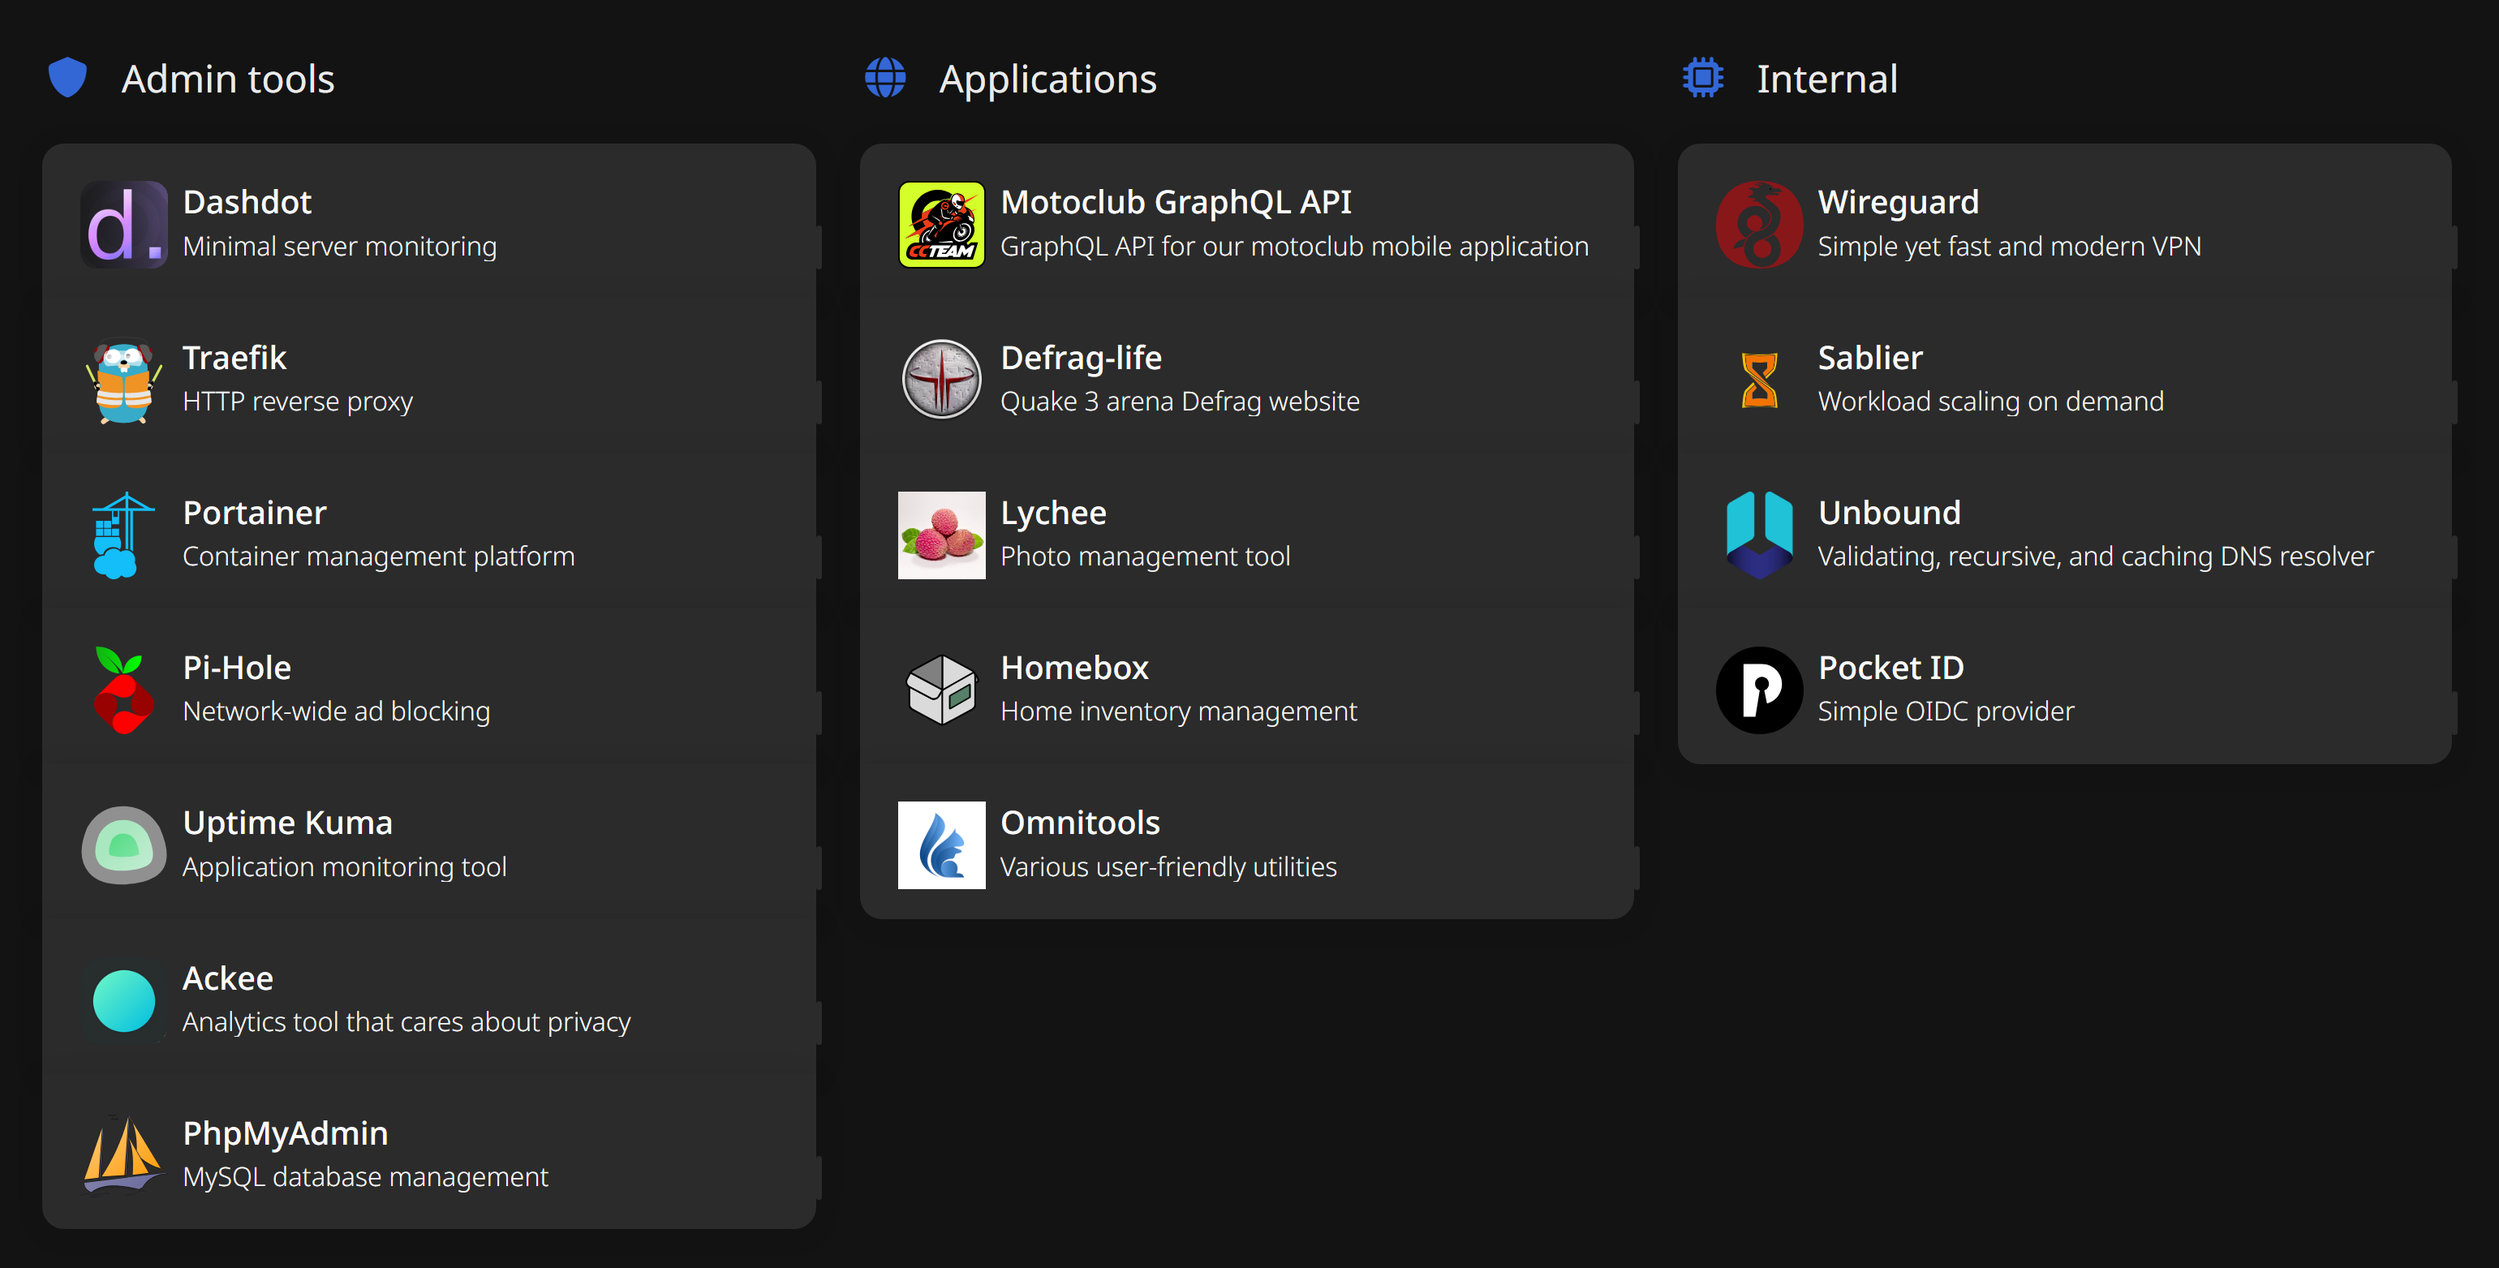
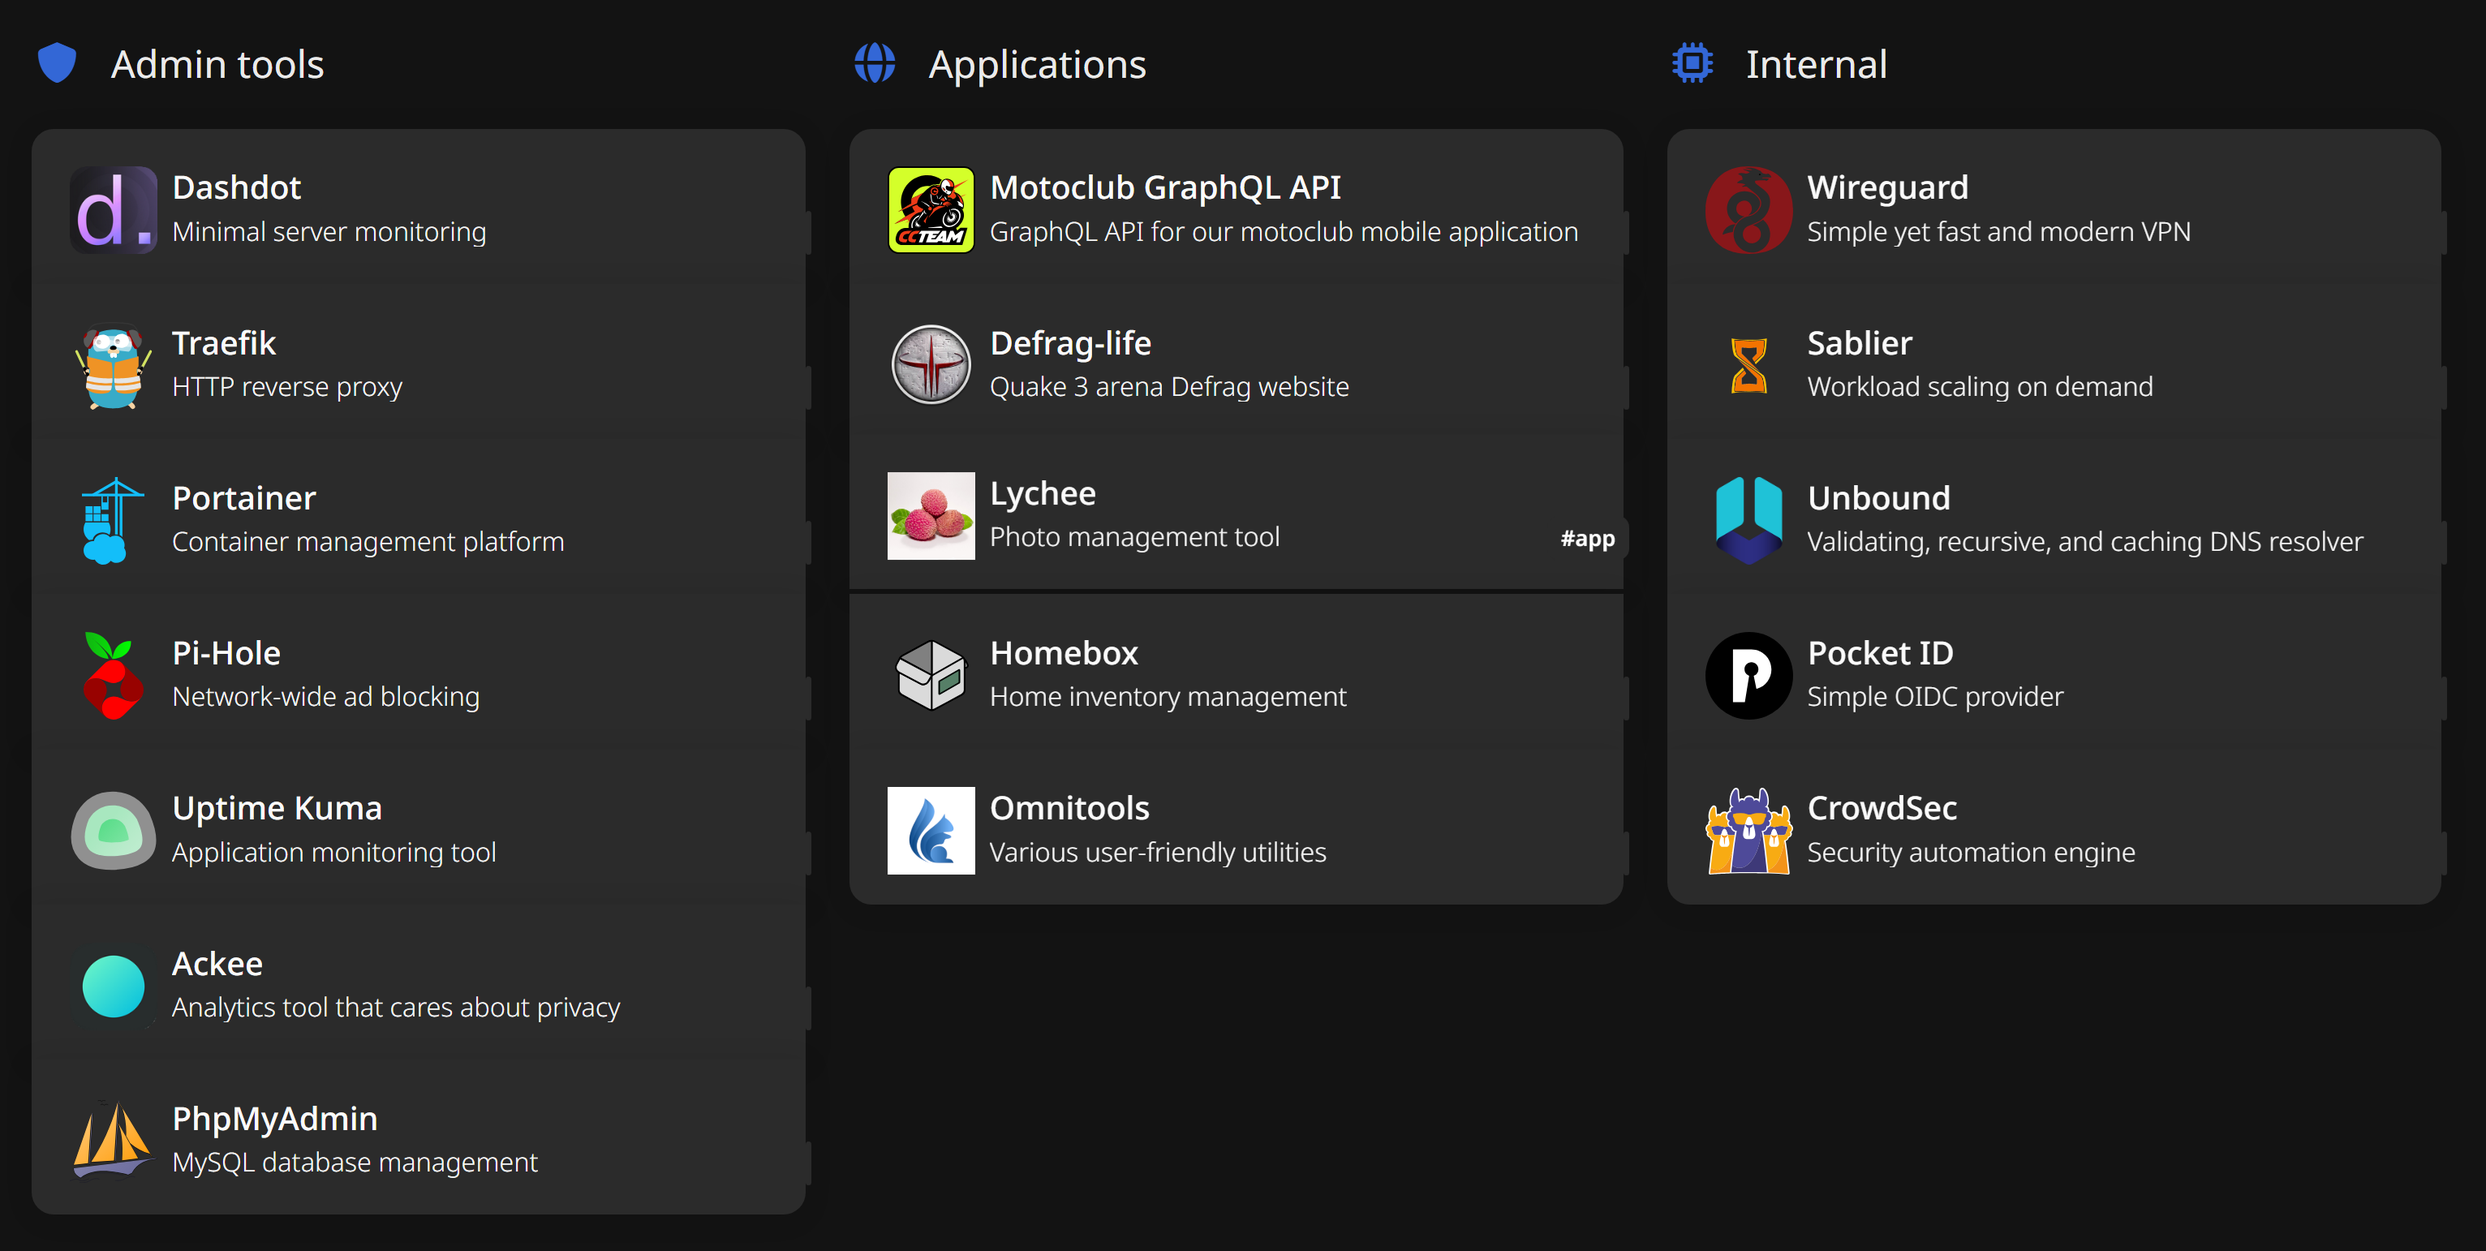
updated diagrams to reflect last changes + updated homer config to add crowdsec

diff --git a/README.md b/README.md
@@ -126,11 +126,13 @@ flowchart TB
     style PIHOLE_CONTAINER fill: #663535
     style UNBOUND_CONTAINER fill: #663535
     style MYAPP_CONTAINER fill: #663535
+    style CROWDSEC_CONTAINER fill: #663535
     style WIREGUARD_HOST fill: #663535
     style TRAEFIK_ROUTER fill: #806030
     style TRAEFIK_MIDDLEWARE fill: #806030
     style VPN_CLIENT fill: #105040
     style PIHOLE_DNS_RECORDS fill: #806030
+    style CROWDSEC_COMMUNITY fill: #4d683b
     DOMAIN(example.com)
     SUBDOMAIN_WIREGUARD(wireguard.example.com)
     SUBDOMAIN_MYAPP(myapp.example.com)
@@ -143,7 +145,7 @@ flowchart TB
     DOCKER_MYAPP_PORT5000{{5000/tcp}}
     DOCKER_PIHOLE_PORT80{{80/tcp}}
     DOCKER_PIHOLE_PORT53{{53/udp}}
-    DOCKER_TRAEFIK_PORT443{{433/tcp}}
+    DOCKER_TRAEFIK_PORT443{{443/tcp}}
     DOCKER_TRAEFIK_PORT80{{80/tcp}}
     DOCKER_TRAEFIK_PORT8080{{8080/tcp}}
     DOCKER_UNBOUND_PORT53{{53/udp}}
@@ -155,6 +157,10 @@ flowchart TB
     DOCKER_PIHOLE_DNS[DNS 1 & 2]
     PIHOLE_DNS_PIHOLE[pihole\n.example.com]
     PIHOLE_DNS_TRAEFIK[traefik\n.example.com]
+    CROWDSEC_BOUNCER(CrowdSec bouncer)
+    CROWDSEC_ENGINE[Security engine\n+ local API]
+    ACCESS_LOG[(access log)]
+    CROWDSEC_COMMUNITY[CrowdSec\ncommunity blocklist]
 
     subgraph VPN_CLIENT[VPN CLIENT]
         WIREGUARD_CLIENT_ENDPOINT[Endpoint]
@@ -190,8 +196,10 @@ flowchart TB
                 subgraph TRAEFIK_MIDDLEWARE[TRAEFIK MIDDLEWARE]
                     REDIRECT(HTTPS redirect)
                     IP_WHITELISTING(IP whitelist)
-                    BASIC_AUTH(Basic auth)
+                    AUTH(PocketID auth)
                 end
+                CROWDSEC_BOUNCER
+                ACCESS_LOG
                 DOCKER_TRAEFIK_PORT80
                 DOCKER_TRAEFIK_PORT443
                 DOCKER_TRAEFIK_PORT8080
@@ -215,6 +223,10 @@ flowchart TB
                 DOCKER_UNBOUND_PORT53
             end
 
+            subgraph CROWDSEC_CONTAINER[CROWDSEC CONTAINER]
+                CROWDSEC_ENGINE
+            end
+
         end
 
         subgraph WIREGUARD_HOST[WIREGUARD\non the host]
@@ -224,23 +236,28 @@ flowchart TB
     end
 
     WIREGUARD_CLIENT_ENDPOINT ---> SUBDOMAIN_WIREGUARD
-    WIREGUARD_CLIENT_DNS -->|10.0.0.1 = server tunnel address| DOCKER_PIHOLE_PORT53
+    WIREGUARD_CLIENT_DNS ------------------->|10.0.0.1\nserver tunnel address| DOCKER_PIHOLE_PORT53
     ROUTER_PORT51820 -->|port forward| DOCKER_WIREGUARD_PORT51820
     ROUTER_PORT443 ------>|port forward| DOCKER_TRAEFIK_PORT443
     ROUTER_PORT80 -->|port forward| DOCKER_TRAEFIK_PORT80
-    DNS_ISP ---->|Server static IP| DOCKER_PIHOLE_PORT53
+    DNS_ISP ------>|Server static IP| DOCKER_PIHOLE_PORT53
     PIHOLE_DNS_TRAEFIK --->|Server internal IP| DOCKER_TRAEFIK_PORT443
     PIHOLE_DNS_PIHOLE --->|Server internal IP| DOCKER_TRAEFIK_PORT443
-    DOCKER_TRAEFIK_PORT443 --> TRAEFIK_ROUTER
+    DOCKER_TRAEFIK_PORT443 --> CROWDSEC_BOUNCER
+    CROWDSEC_BOUNCER -->|IP not banned| TRAEFIK_ROUTER
     DOCKER_TRAEFIK_PORT80 --> TRAEFIK_ROUTER
+    CROWDSEC_BOUNCER -.->|every request logged| ACCESS_LOG
+    ACCESS_LOG -.->|reads, detects attacks| CROWDSEC_ENGINE
+    CROWDSEC_ENGINE -.->|decisions| CROWDSEC_BOUNCER
+    CROWDSEC_ENGINE <-....->|signals / community blocklist| CROWDSEC_COMMUNITY
     TRAEFIK_ROUTER_MYAPP --> REDIRECT
     TRAEFIK_ROUTER_PIHOLE --> REDIRECT
     TRAEFIK_ROUTER_TRAEFIK -->|Dashboard / API| REDIRECT
-    IP_WHITELISTING --> BASIC_AUTH
+    IP_WHITELISTING --> AUTH
     IP_WHITELISTING --> DOCKER_PIHOLE_PORT80
     REDIRECT --> IP_WHITELISTING
     REDIRECT ----> DOCKER_MYAPP_PORT5000
-    BASIC_AUTH --> DOCKER_TRAEFIK_PORT8080
+    AUTH --> DOCKER_TRAEFIK_PORT8080
     DOCKER_PIHOLE_DNS ---> DOCKER_UNBOUND_PORT53
     UNBOUND_CONTAINER <--> ROOT_DNS_SERVERS
 ```
@@ -254,6 +271,9 @@ so that we reroute the entire Internet traffic through **Pi-hole** and thus take
 In this example **Traefik** (_traefik.example.com_) and **Pi-Hole** (_pihole.example.com_) are only accessible
 through VPN and from the local network thanks to local DNS records and IP whitelisting,
 while **Myapp** (_myapp.example.com_) is also accessible from the internet publicly.
+
+On top of that, **CrowdSec** watches the Traefik access log and its bouncer, plugged on the HTTPS entrypoint, rejects the IP addresses flagged as malicious
+(by our own scenarios or by the community blocklist) before they reach any service, see [CrowdSec](#crowdsec).
 
 You will find more details on how all this has been implemented later in this guide.
 
@@ -785,7 +805,7 @@ flowchart LR
     style SERVER_DEVICE fill: #665555
     style CONTAINER_ENGINE fill: #664545
     INCOMING_REQUEST((INCOMING\nREQUEST))
-    DOCKER_TRAEFIK_PORT443{{433/tcp}}
+    DOCKER_TRAEFIK_PORT443{{443/tcp}}
     DOCKER_TRAEFIK_PORT80{{80/tcp}}
     DOCKER_TRAEFIK_PORT8080{{8080/tcp}}
     DOCKER_MYAPP1_PORT{{exposed port}}
@@ -812,7 +832,7 @@ flowchart LR
                 subgraph TRAEFIK_MIDDLEWARE[TRAEFIK MIDDLEWARE]
                     REDIRECT(HTTPS redirect)
                     IP_WHITELISTING(IP whitelist)
-                    BASIC_AUTH(Basic auth)
+                    AUTH(PocketID auth)
                 end
                 DOCKER_TRAEFIK_PORT80
                 DOCKER_TRAEFIK_PORT443
@@ -830,11 +850,11 @@ flowchart LR
     TRAEFIK_ROUTER_MYAPP1 --> REDIRECT
     TRAEFIK_ROUTER_MYAPP2 --> REDIRECT
     REDIRECT -.-> DOCKER_TRAEFIK_PORT443
-    IP_WHITELISTING --> BASIC_AUTH
+    IP_WHITELISTING --> AUTH
     IP_WHITELISTING ---> DOCKER_MYAPP2_PORT
     REDIRECT --> IP_WHITELISTING
     REDIRECT ---> DOCKER_MYAPP1_PORT
-    BASIC_AUTH --> DOCKER_TRAEFIK_PORT8080
+    AUTH --> DOCKER_TRAEFIK_PORT8080
 ```
 
 It handles HTTP to HTTPS redirection, IP whitelisting and authentication (through PocketID, or basic authentication) through custom **middlewares**.
@@ -1891,53 +1911,31 @@ For the following examples, we will consider that the **user** enters http://mya
 Here is what happen when you try to reach a service which is **open to the internet**, without using any VPN,
 from your local network holding your homelab (on the left), or from any other location (on the right) :
 
-<table>
+<table width="100%">
 <tr>
-<td>
-<img width="450px" height="1px" alt="1px blank image just for spacing">
+<td width="50%" valign="top">
 
 ```mermaid
 flowchart TB
-    style HOSTING_PROVIDER fill: #4d683b
-    style DDNS_PROVIDER fill: #69587b
     style INTERNET_SERVICE_PROVIDER fill: #205566
     style SERVER_DEVICE fill: #665151
     style CONTAINER_ENGINE fill: #664343
     style TRAEFIK_CONTAINER fill: #663535
     style PIHOLE_CONTAINER fill: #663535
-    style UNBOUND_CONTAINER fill: #663535
     style MYAPP_CONTAINER fill: #663535
+    style PIHOLE_DNS_RECORDS fill: #806030
     style TRAEFIK_ROUTER fill: #806030
     style TRAEFIK_MIDDLEWARE fill: #806030
-    DOMAIN(example.com)
-    SUBDOMAIN_MYAPP(myapp.example.com)
-    DDNS(myddns.ddns.net)
-    ROUTER_PUBLIC_IP[public IP]
-    ROUTER_PORT80{{80/tcp}}
-    ROUTER_PORT443{{443/tcp}}
     ROUTER_DNS[DNS]
     DOCKER_PIHOLE_PORT53{{53/udp}}
-    DOCKER_TRAEFIK_PORT443{{433/tcp}}
+    DOCKER_TRAEFIK_PORT443{{443/tcp}}
     DOCKER_TRAEFIK_PORT80{{80/tcp}}
     DOCKER_MYAPP_PORT{{port/tcp}}
-    DOCKER_UNBOUND_PORT53{{53/udp}}
     TRAEFIK_ROUTER_MYAPP(myapp.example.com)
     TRAEFIK_MIDDLEWARE_REDIRECT(HTTPS redirect)
-    ROOT_DNS_SERVERS[Root DNS servers]
-
-    subgraph HOSTING_PROVIDER[DOMAIN NAME REGISTRAR]
-        DOMAIN
-        SUBDOMAIN_MYAPP
-    end
-
-    subgraph DDNS_PROVIDER[DYNAMIC DNS PROVIDER]
-        DDNS
-    end
+    PIHOLE_DNS_MYAPP(myapp.example.com)
 
     subgraph INTERNET_SERVICE_PROVIDER[INTERNET SERVICE PROVIDER]
-        ROUTER_PUBLIC_IP
-        ROUTER_PORT80
-        ROUTER_PORT443
         ROUTER_DNS
     end
 
@@ -1947,12 +1945,11 @@ flowchart TB
                 DOCKER_MYAPP_PORT
             end
 
-            subgraph UNBOUND_CONTAINER[UNBOUND CONTAINER]
-                DOCKER_UNBOUND_PORT53
-            end
-
             subgraph PIHOLE_CONTAINER[PIHOLE CONTAINER]
                 DOCKER_PIHOLE_PORT53
+                subgraph PIHOLE_DNS_RECORDS[LOCAL DNS RECORDS]
+                    PIHOLE_DNS_MYAPP
+                end
             end
 
             subgraph TRAEFIK_CONTAINER[TRAEFIK CONTAINER]
@@ -1973,46 +1970,29 @@ flowchart TB
     end
 
     CLIENT((client)) --->|" http://myapp.example.com "| BROWSER
-    BROWSER((browser)) -->|HTTP| ROUTER_PUBLIC_IP
-    DOMAIN <-->|subdomain| SUBDOMAIN_MYAPP
-    SUBDOMAIN_MYAPP <-->|CNAME| DDNS
-    DDNS <-->|DynDNS| ROUTER_PUBLIC_IP
-    ROUTER_PUBLIC_IP --> ROUTER_PORT80
-    ROUTER_PUBLIC_IP --> ROUTER_PORT443
-    ROUTER_PORT443 -->|port forward| DOCKER_TRAEFIK_PORT443
-    ROUTER_PORT80 -->|port forward| DOCKER_TRAEFIK_PORT80
-    DOCKER_TRAEFIK_PORT443 --> TRAEFIK_ROUTER
-    DOCKER_TRAEFIK_PORT80 --> TRAEFIK_ROUTER
-    TRAEFIK_ROUTER_MYAPP --> TRAEFIK_MIDDLEWARE_REDIRECT
-    TRAEFIK_MIDDLEWARE_REDIRECT --> DOCKER_TRAEFIK_PORT443
-    TRAEFIK_MIDDLEWARE_REDIRECT --> DOCKER_MYAPP_PORT
     BROWSER((browser)) <--> LOCAL_DNS_RESOLVER[/local resolver\]
     LOCAL_DNS_RESOLVER <--->|router local IP address| ROUTER_DNS
     ROUTER_DNS <-->|mini PC static IP| DOCKER_PIHOLE_PORT53
-    DOCKER_PIHOLE_PORT53 <-->|DNS| DOCKER_UNBOUND_PORT53
-    UNBOUND_CONTAINER <-----> ROOT_DNS_SERVERS
+    PIHOLE_DNS_MYAPP -->|mini PC internal IP| DOCKER_TRAEFIK_PORT80
+    DOCKER_TRAEFIK_PORT80 --> TRAEFIK_ROUTER
+    DOCKER_TRAEFIK_PORT443 --> TRAEFIK_ROUTER
+    TRAEFIK_ROUTER_MYAPP --> TRAEFIK_MIDDLEWARE_REDIRECT
+    TRAEFIK_MIDDLEWARE_REDIRECT --> DOCKER_TRAEFIK_PORT443
+    TRAEFIK_MIDDLEWARE_REDIRECT --> DOCKER_MYAPP_PORT
     linkStyle 0 stroke-width: 4px, stroke: red
-    linkStyle 1 stroke-width: 4px, stroke: red
+    linkStyle 1 stroke-width: 4px, stroke: yellow, stroke-dasharray: 5
     linkStyle 2 stroke-width: 4px, stroke: yellow, stroke-dasharray: 5
     linkStyle 3 stroke-width: 4px, stroke: yellow, stroke-dasharray: 5
-    linkStyle 4 stroke-width: 4px, stroke: yellow, stroke-dasharray: 5
+    linkStyle 4 stroke-width: 4px, stroke: red
     linkStyle 5 stroke-width: 4px, stroke: red
+    linkStyle 6 stroke-width: 4px, stroke: red
+    linkStyle 7 stroke-width: 4px, stroke: red
     linkStyle 8 stroke-width: 4px, stroke: red
     linkStyle 9 stroke-width: 4px, stroke: red
-    linkStyle 10 stroke-width: 4px, stroke: red
-    linkStyle 11 stroke-width: 4px, stroke: red
-    linkStyle 12 stroke-width: 4px, stroke: red
-    linkStyle 13 stroke-width: 4px, stroke: red
-    linkStyle 14 stroke-width: 4px, stroke: yellow, stroke-dasharray: 5
-    linkStyle 15 stroke-width: 4px, stroke: yellow, stroke-dasharray: 5
-    linkStyle 16 stroke-width: 4px, stroke: yellow, stroke-dasharray: 5
-    linkStyle 17 stroke-width: 4px, stroke: yellow, stroke-dasharray: 5
-    linkStyle 18 stroke-width: 4px, stroke: yellow, stroke-dasharray: 5
 ```
 
 </td>
-<td>
-<img width="450px" height="1px" alt="1px blank image just for spacing">
+<td width="50%" valign="top">
 
 ```mermaid
 flowchart TB
@@ -2034,7 +2014,7 @@ flowchart TB
     ROUTER_PORT80{{80/tcp}}
     ROUTER_PORT443{{443/tcp}}
     ROUTER2_DNS[DNS]
-    DOCKER_TRAEFIK_PORT443{{433/tcp}}
+    DOCKER_TRAEFIK_PORT443{{443/tcp}}
     DOCKER_TRAEFIK_PORT80{{80/tcp}}
     DOCKER_MYAPP_PORT{{port/tcp}}
     TRAEFIK_ROUTER_MYAPP(myapp.example.com)
@@ -2128,10 +2108,11 @@ flowchart TB
 </tr>
 </table>
 
-Once the **resolving name server** got the **IP address** through **DNS resolver** (yellow dotted line),
-the request reaches the mini PC on port **80** (HTTP) after being **port forwarded** by the **ISP router**,
-to be handled by the **reverse proxy**, and is then redirected to port **443** (HTTPS) thanks to the **HTTPS redirect middleware**,
-which finally route it to the target application (red line)
+From the **local network** (left), Pi-Hole answers with its **local DNS record** (yellow dotted line), so the browser gets the mini PC's **internal IP**
+and reaches the **reverse proxy** directly on the LAN, without going through the public IP (no port forwarding, no NAT loopback).
+From **any other location** (right), the name is resolved publicly through the client's **DNS resolver** and the request reaches the mini PC on port **80** (HTTP)
+after being **port forwarded** by the **ISP router**.
+In both cases the reverse proxy redirects the request to port **443** (HTTPS) thanks to the **HTTPS redirect middleware**, which finally routes it to the target application (red line).
 
 ### With VPN
 
@@ -2158,11 +2139,11 @@ flowchart TB
     SUBDOMAIN_WIREGUARD(wireguard.example.com)
     DDNS(myddns.ddns.net)
     ROUTER_PUBLIC_IP[public IP]
-    ROUTER_PORT51820{{51820/tcp}}
+    ROUTER_PORT51820{{51820/udp}}
     WIREGUARD_PORT{{51820/udp}}
     ROUTER_DNS[DNS 1]
     DOCKER_PIHOLE_PORT53{{53/udp}}
-    DOCKER_TRAEFIK_PORT443{{433/tcp}}
+    DOCKER_TRAEFIK_PORT443{{443/tcp}}
     DOCKER_TRAEFIK_PORT80{{80/tcp}}
     DOCKER_MYAPP_PORT{{port/tcp}}
     DOCKER_UNBOUND_PORT53{{53/udp}}
@@ -2234,7 +2215,7 @@ flowchart TB
 
     CLIENT((client)) --> VPN_CLIENT
     WIREGUARD_CLIENT_ENDPOINT --> SUBDOMAIN_WIREGUARD
-    WIREGUARD_CLIENT_DNS -->|10.0.0.1 = server tunnel address, port 53 published by Docker| DOCKER_PIHOLE_PORT53
+    WIREGUARD_CLIENT_DNS -->|10.0.0.1 = server tunnel address| DOCKER_PIHOLE_PORT53
     VPN_CLIENT -->|" http://myapp.example.com "| BROWSER
     BROWSER((browser)) --> ROUTER_PUBLIC_IP
     DOMAIN -->|subdomain| SUBDOMAIN_MYAPP
@@ -2814,7 +2795,7 @@ flowchart LR
     style TRAEFIK_MIDDLEWARE fill: #806030
     style SERVER_DEVICE fill: #665555
     style CONTAINER_ENGINE fill: #664545
-    DOCKER_TRAEFIK_PORT443{{433/tcp}}
+    DOCKER_TRAEFIK_PORT443{{443/tcp}}
     DOCKER_TRAEFIK_PORT80{{80/tcp}}
     DOCKER_APP_PORT{{9000/tcp}}
     TRAEFIK_ROUTER_APP(portainer.example.com)
@@ -2962,7 +2943,7 @@ flowchart LR
     style TRAEFIK_MIDDLEWARE fill: #806030
     style SERVER_DEVICE fill: #665555
     style CONTAINER_ENGINE fill: #664545
-    DOCKER_TRAEFIK_PORT443{{433/tcp}}
+    DOCKER_TRAEFIK_PORT443{{443/tcp}}
     DOCKER_TRAEFIK_PORT80{{80/tcp}}
     DOCKER_APP_PORT{{3001/tcp}}
     TRAEFIK_ROUTER_APP(dashdot.example.com)
@@ -3109,7 +3090,7 @@ flowchart LR
     style TRAEFIK_MIDDLEWARE fill: #806030
     style SERVER_DEVICE fill: #665555
     style CONTAINER_ENGINE fill: #664545
-    DOCKER_TRAEFIK_PORT443{{433/tcp}}
+    DOCKER_TRAEFIK_PORT443{{443/tcp}}
     DOCKER_TRAEFIK_PORT80{{80/tcp}}
     DOCKER_APP_PORT{{8080/tcp}}
     TRAEFIK_ROUTER_APP(dashboard.example.com)
@@ -3420,7 +3401,7 @@ flowchart LR
     style TRAEFIK_MIDDLEWARE fill: #806030
     style SERVER_DEVICE fill: #665555
     style CONTAINER_ENGINE fill: #664545
-    DOCKER_TRAEFIK_PORT443{{433/tcp}}
+    DOCKER_TRAEFIK_PORT443{{443/tcp}}
     DOCKER_TRAEFIK_PORT80{{80/tcp}}
     DOCKER_APP_PORT{{80/tcp}}
     TRAEFIK_ROUTER_APP(phpmyadmin.example.com)
@@ -3570,7 +3551,7 @@ flowchart LR
     style TRAEFIK_MIDDLEWARE fill: #806030
     style SERVER_DEVICE fill: #665555
     style CONTAINER_ENGINE fill: #664545
-    DOCKER_TRAEFIK_PORT443{{433/tcp}}
+    DOCKER_TRAEFIK_PORT443{{443/tcp}}
     DOCKER_TRAEFIK_PORT80{{80/tcp}}
     DOCKER_APP_PORT{{80/tcp}}
     TRAEFIK_ROUTER_APP(lychee.example.com)
@@ -3764,7 +3745,7 @@ flowchart LR
     style TRAEFIK_MIDDLEWARE fill: #806030
     style SERVER_DEVICE fill: #665555
     style CONTAINER_ENGINE fill: #664545
-    DOCKER_TRAEFIK_PORT443{{433/tcp}}
+    DOCKER_TRAEFIK_PORT443{{443/tcp}}
     DOCKER_TRAEFIK_PORT80{{80/tcp}}
     DOCKER_NGINX_PORT{{80/tcp}}
     DOCKER_PHP_PORT{{9000/tcp}}
